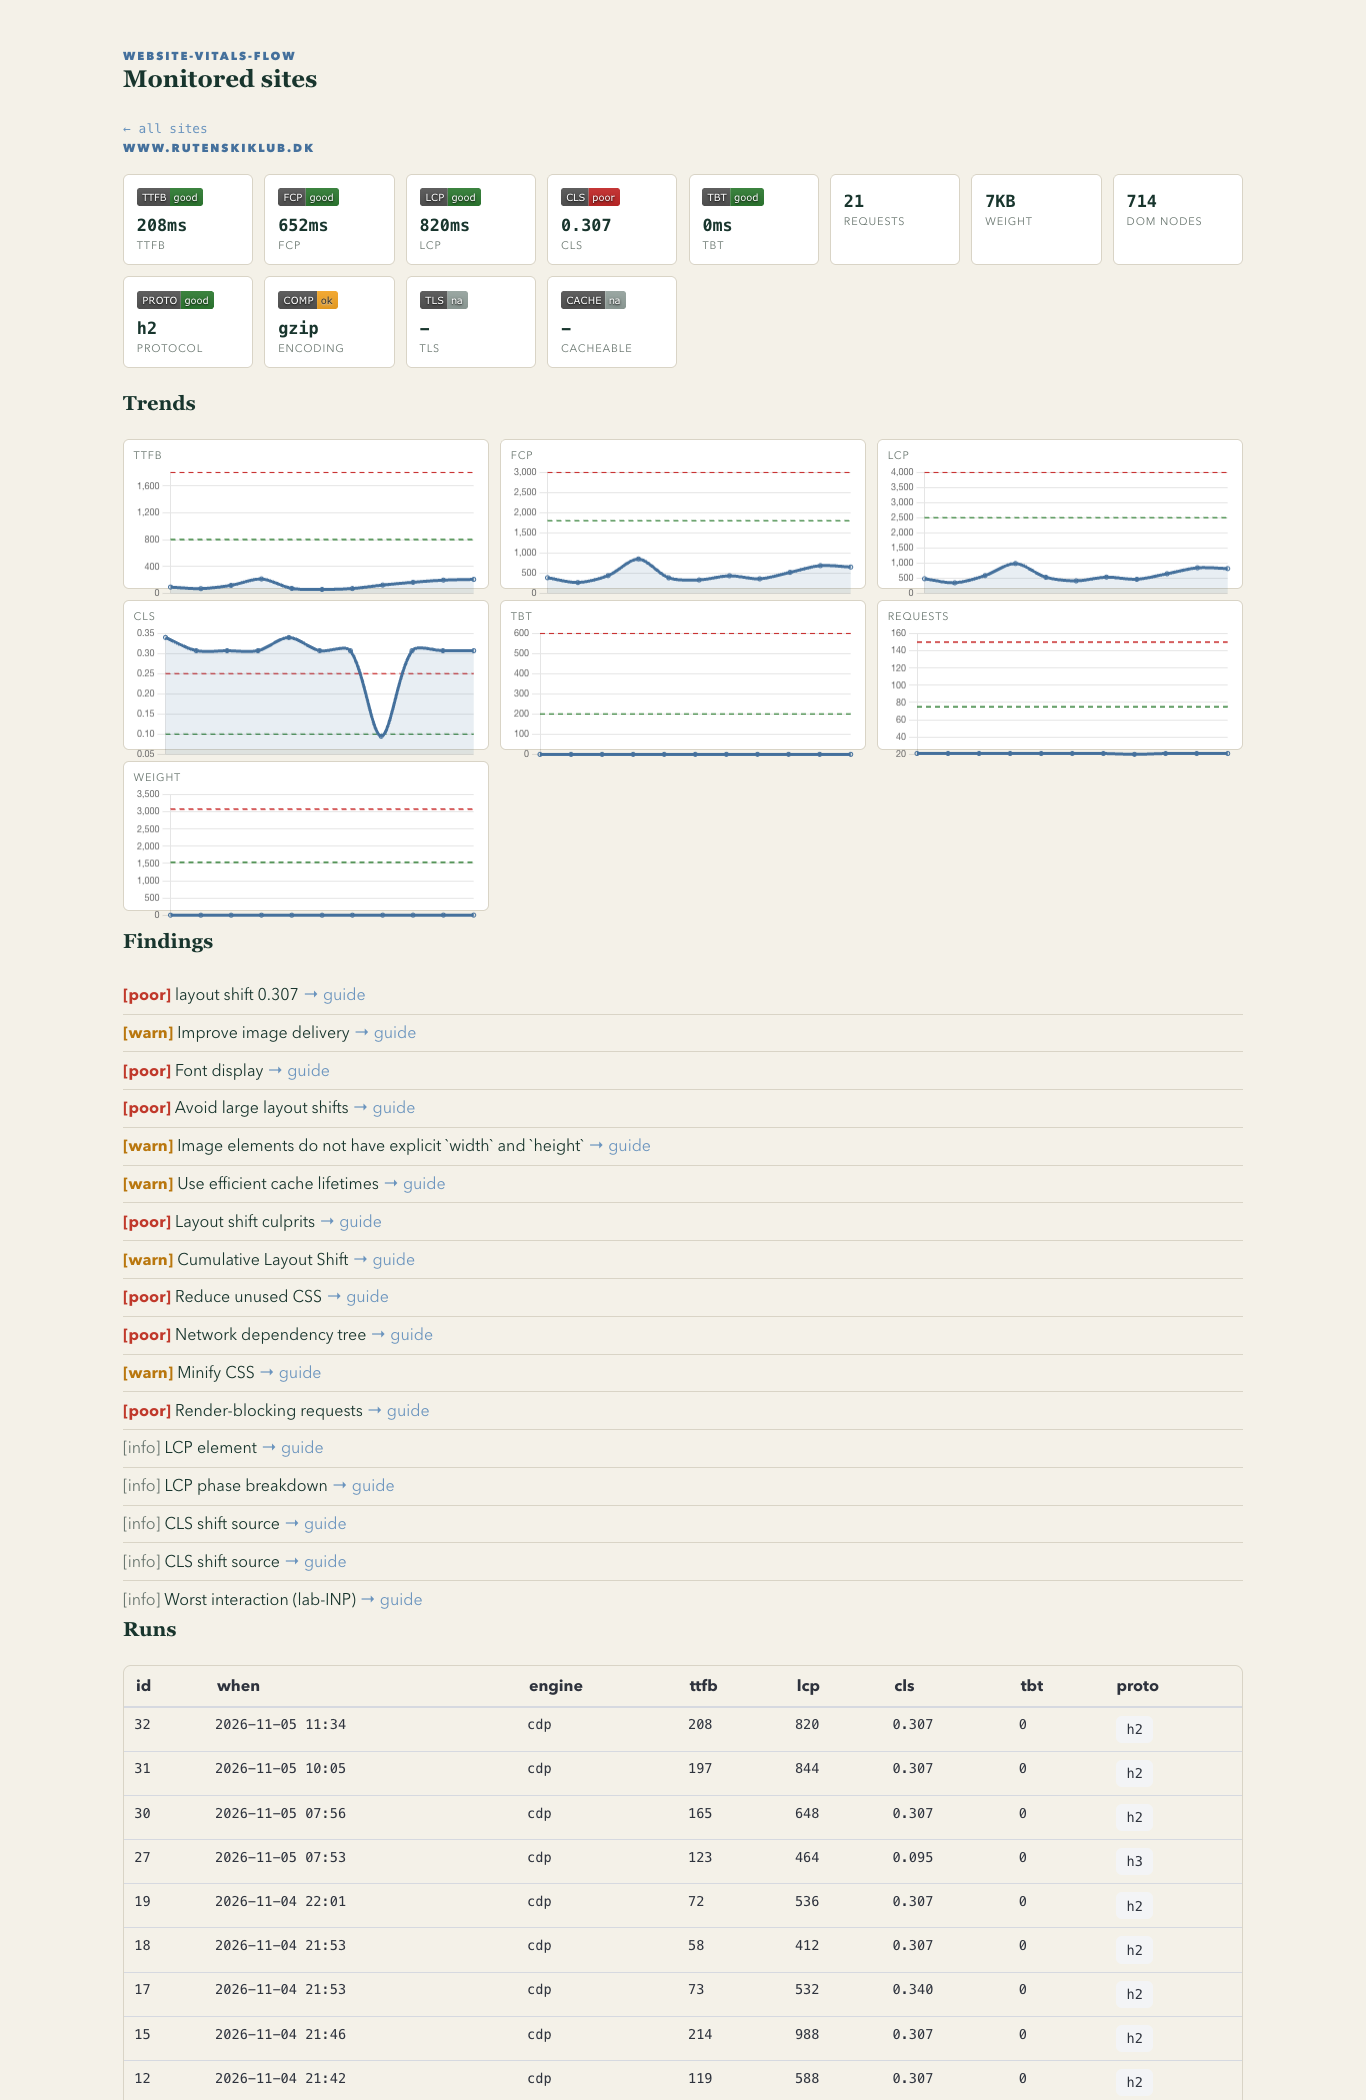
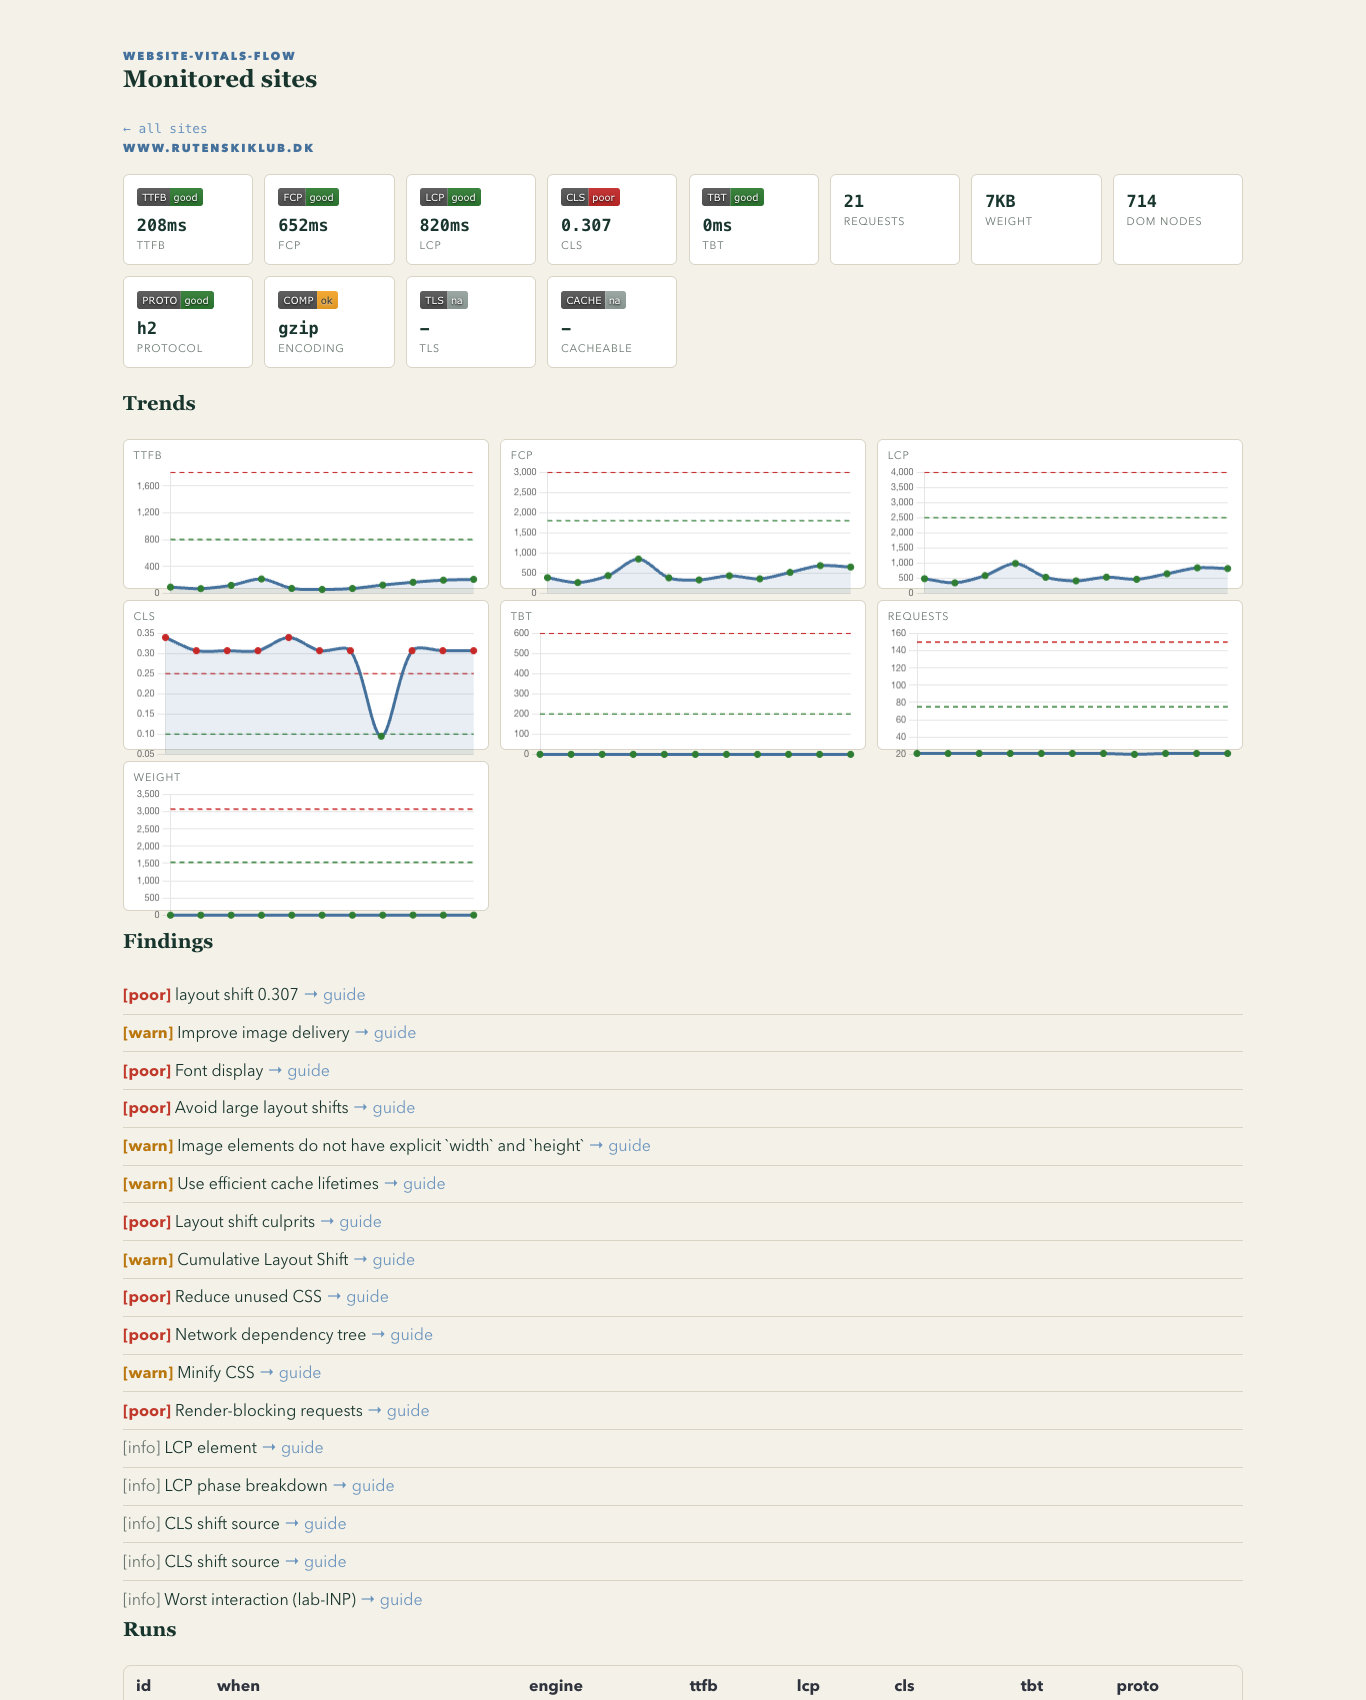
Trend points colored by band: green/amber/red like LH scores
- each mini-chart colors its data points by band — #2e7d32 good,
  #f9a825 ok, #c62828 poor (#97a5a0 when unbanded) — on top of the
  existing dashed green good-cutoff + red poor-cutoff lines
- verified on CLS: high runs red, the ~0.095 dip point green —
  the three-state band semantics are now visible per point

Generated with [Devin](https://devin.ai)

diff --git a/internal/server/static/app.js b/internal/server/static/app.js
@@ -100,12 +100,20 @@ document.addEventListener('alpine:init', () => {
         {id:'reqs',label:'requests',v:r=>r.request_count,b:[75,150]},
         {id:'weight',label:'weight KB',v:r=>KB(r.page_bytes),b:[1536,3072]},
       ];
+      const bandColor={'good':'#2e7d32','ok':'#f9a825','poor':'#c62828','na':'#97a5a0'};
       for(const sp of specs){
         const el=document.getElementById('tr-'+sp.id); if(!el) continue;
         if(this.charts[sp.id]) this.charts[sp.id].destroy();
-        const ds=[{label:sp.label,data:rs.map(sp.v),
+        const vals=rs.map(sp.v);
+        // point colors by band — green/amber/red like LH score rings
+        const ptColor=vals.map(v=>{
+          if(v==null||!sp.b) return bandColor.na;
+          return bandColor[v>sp.b[1]?'poor':v>sp.b[0]?'ok':'good'];
+        });
+        const ds=[{label:sp.label,data:vals,
           borderColor:'hsl(210 39% 44%)',backgroundColor:'hsl(210 39% 44% / .12)',
-          tension:.3,pointRadius:2,fill:true}];
+          pointBackgroundColor:ptColor,pointBorderColor:ptColor,pointRadius:3,
+          tension:.3,fill:true}];
         if(sp.b){ds.push(
           {data:labels.map(()=>sp.b[0]),borderColor:'#2e7d32',borderDash:[5,4],pointRadius:0,borderWidth:1.4},
           {data:labels.map(()=>sp.b[1]),borderColor:'#c62828',borderDash:[5,4],pointRadius:0,borderWidth:1.4});}
